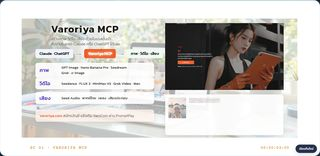
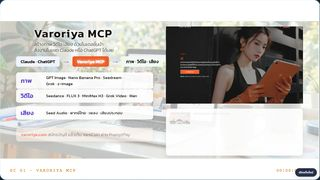
VaroCoin menu: Claude and ChatGPT MCP connect are one page each (4 steps + URL + check)
Claude-Session: https://claude.ai/code/session_01B1v9jyRD8MFjcV6ktsYkvy

diff --git a/cover/creative/menu.html b/cover/creative/menu.html
@@ -4610,8 +4610,8 @@ document.addEventListener("click", e => {
 <div class="stage"><video data-src="assets/motion/bg/varoriya--04-podcast-studio.mp4" muted loop playsinline preload="none"></video><div class="vig"></div>
 <div class="c kick a fi" style="left:5cqw;top:8cqw;animation-delay:.6s">ตัวอย่างงานจริง 3/3</div><div class="c vr-model a bi" style="left:5cqw;top:10.4cqw;animation-delay:.8s"><img class="rel" src="assets/varoriya/showcase/logos/minimax-color.svg" alt=""><span class="rel vr-h" style="font-size:2.15cqw"><b>MiniMax H3</b></span></div><div class="c vr-sub a fi" style="left:5cqw;top:15.6cqw;width:19.6cqw;line-height:1.6;animation-delay:1.2s">ใส่ภาพ วิดีโอ เสียงอ้างอิง ทำคนพูดไทยได้</div><video class="c vr-player a fi" data-src="assets/varoriya/showcase/full/hanuman-ultra.mp4" poster="assets/varoriya/showcase/minimax-h3-hanuman-ultra.jpg" muted loop playsinline controls preload="none" style="left:26.4cqw;top:8.4cqw;width:69.6cqw;height:39.15cqw;animation-delay:.9s"></video><div class="c vr-picks a fu" style="left:5cqw;top:21.6cqw;width:19.6cqw;animation-delay:1.4s"><button class="vr-pick on" data-src="assets/varoriya/showcase/full/hanuman-ultra.mp4" data-poster="assets/varoriya/showcase/minimax-h3-hanuman-ultra.jpg" data-title="หนุมาน vs 7 ยอดมนุษย์"><img src="assets/varoriya/showcase/minimax-h3-hanuman-ultra.jpg" alt=""><span>หนุมาน vs<br>7 ยอดมนุษย์</span></button><button class="vr-pick" data-src="assets/varoriya/showcase/full/flood-news.mp4" data-poster="assets/varoriya/showcase/minimax-h3-flood-news.jpg" data-title="ข่าวน้ำท่วม 2569"><img src="assets/varoriya/showcase/minimax-h3-flood-news.jpg" alt=""><span>ข่าวน้ำท่วม 2569</span></button></div>
 <div class="grain"></div><div class="bar t"></div><div class="bar b"></div><div class="sc">SC 06 · VARORIYA MCP</div><div class="tc" data-clock>00:00:00:00</div></div></section>
-<section class="demo" data-lesson="varoriya"><header><span class="num">07</span><h2>ติดตั้งใน Claude · ขั้น 1–4</h2><button class="replay">เล่นใหม่</button></header>
-<div class="stage dim"><video data-src="assets/motion/bg/varoriya--05-laptop-open.mp4" muted loop playsinline preload="none"></video><div class="vig"></div>
+<section class="demo" data-lesson="varoriya"><header><span class="num">07</span><h2>ต่อ MCP ใน Claude</h2><button class="replay">เล่นใหม่</button></header>
+<div class="stage dim vri-one"><video data-src="assets/motion/bg/varoriya--05-laptop-open.mp4" muted loop playsinline preload="none"></video><div class="vig"></div>
 <style>
 [data-lesson="varoriya"] .vri-shot { z-index: 5; text-shadow: none; }
 [data-lesson="varoriya"] .vri-shot img { position: relative; display: block; width: 100%; height: 100%; object-fit: contain; background: #f1ece3; border-radius: .7cqw; box-shadow: 0 .6cqw 1.8cqw rgba(40,30,10,.16); }
@@ -4620,11 +4620,23 @@ document.addEventListener("click", e => {
 [data-lesson="varoriya"] .vri-cap i { flex: none; padding: .1cqw .8cqw; border-radius: 1cqw; background: #d9704f; color: #fff; font: 600 1cqw/1.6 "Kanit"; font-style: normal; }
 [data-lesson="varoriya"] .vri-cap b { font-weight: 600; }
 [data-lesson="varoriya"] .vri-credit { z-index: 5; font: 300 .9cqw "Kanit"; color: #6b655b; text-shadow: none; }
-</style><div class="c kick a fi" style="left:5cqw;top:8cqw;animation-delay:.6s">Install · Claude · ขั้น 1–4</div><div class="c vr-h a bi" style="left:5cqw;top:9.8cqw;font-size:3cqw;animation-delay:.8s">ติดตั้งใน <b>Claude</b> ทีละขั้น <span style="font-size:1.6cqw;color:#6b655b">(1/2)</span></div><div class="c vri-credit a fi" style="right:4cqw;top:11.6cqw;animation-delay:1s">ภาพจากคู่มือทางการ varoriya.com/th/service/mcp</div>
-<div class="c vri-shot a fu" style="left:4cqw;top:15cqw;width:52cqw;height:27.6cqw;animation-delay:1.2s"><img src="assets/varoriya/mcp/step-1-2.jpg" alt="ขั้น 1–2 เข้า claude.ai หรือ Claude Desktop แล้วเปิด Settings"></div>
-<div class="c vri-shot a fu" style="left:58cqw;top:15cqw;width:38cqw;height:27.6cqw;animation-delay:1.6s"><img src="assets/varoriya/mcp/step-3-4.jpg" alt="ขั้น 3–4 เลือกแท็บ Connectors แล้วคลิก Add custom connector"></div>
-<div class="c vri-cap a fi" style="left:4cqw;top:43.6cqw;width:52cqw;animation-delay:2s"><i>1–2</i><span>เข้า <b>claude.ai</b> หรือแอป <b>Claude Desktop</b> แล้วเปิด <b>Settings</b> (⚙ มุมซ้ายล่าง หรือกด Ctrl + ,)</span></div>
-<div class="c vri-cap a fi" style="left:58cqw;top:43.6cqw;width:38cqw;animation-delay:2.3s"><i>3–4</i><span>เลือกแท็บ <b>Connectors</b> → กด <b>Add</b> → <b>Add custom connector</b></span></div>
+</style><style>
+[data-lesson="varoriya"] .vri-one .vri-cap { font-size: 1.05cqw; }
+[data-lesson="varoriya"] .vri-row-card { padding: .9cqw 1.4cqw !important; font-size: 1.05cqw !important; }
+[data-lesson="varoriya"] .vri-row-card h4 { font-size: 1.3cqw !important; }
+[data-lesson="varoriya"] .vri-row-card h4 { margin: 0 0 .3cqw; }
+[data-lesson="varoriya"] .vri-row-card p { margin: 0 0 .5cqw; }
+</style><div class="c kick a fi" style="left:5cqw;top:8cqw;animation-delay:.6s">Install · Claude</div><div class="c vr-h a bi" style="left:5cqw;top:9.6cqw;font-size:3cqw;animation-delay:.8s">ต่อ MCP ใน <b>Claude</b></div><div class="c vri-credit a fi" style="right:4cqw;top:11.4cqw;animation-delay:1s">ภาพจากคู่มือทางการ varoriya.com/th/service/mcp</div>
+<div class="c vri-shot a fu" style="left:4cqw;top:14.2cqw;width:21.5cqw;height:15.4cqw;animation-delay:1.1s"><img src="assets/varoriya/mcp/step-1-2.jpg" alt="เข้า Claude แล้วเปิด Settings"></div>
+<div class="c vri-shot a fu" style="left:27.5cqw;top:14.2cqw;width:21.5cqw;height:15.4cqw;animation-delay:1.4s"><img src="assets/varoriya/mcp/step-3-4.jpg" alt="แท็บ Connectors แล้ว Add custom connector"></div>
+<div class="c vri-shot a fu" style="left:51cqw;top:14.2cqw;width:21.5cqw;height:15.4cqw;animation-delay:1.7s"><img src="assets/varoriya/mcp/step-5-7.jpg" alt="วาง URL กด Add แล้ว Connect"></div>
+<div class="c vri-shot a fu" style="left:74.5cqw;top:14.2cqw;width:21.5cqw;height:15.4cqw;animation-delay:2.0s"><img src="assets/varoriya/mcp/step-8.jpg" alt="Connected แล้วเลือก Always allow"></div>
+<div class="c vri-cap a fi" style="left:4cqw;top:30.4cqw;width:21.5cqw;animation-delay:2.2s"><i>1</i><span>เปิด <b>Claude</b> → <b>Settings</b> (⚙ มุมซ้ายล่าง)</span></div>
+<div class="c vri-cap a fi" style="left:27.5cqw;top:30.4cqw;width:21.5cqw;animation-delay:2.4s"><i>2</i><span>แท็บ <b>Connectors</b> → <b>Add</b> → <b>Add custom connector</b></span></div>
+<div class="c vri-cap a fi" style="left:51cqw;top:30.4cqw;width:21.5cqw;animation-delay:2.6s"><i>3</i><span>วาง URL → <b>Add</b> → <b>Connect</b> แล้วล็อกอิน Varoriya</span></div>
+<div class="c vri-cap a fi" style="left:74.5cqw;top:30.4cqw;width:21.5cqw;animation-delay:2.8s"><i>4</i><span>ขึ้น <b>Connected</b> → เลือก <b>Always allow</b></span></div>
+<div class="c vr-card vri-row-card a fu" style="left:4cqw;top:38.2cqw;width:44cqw;animation-delay:3s;background:#eef4ff"><h4>URL ที่ต้องวาง</h4><p class="mono" style="font-size:1.35cqw">https://mcp.varoriya.com</p><p style="color:#4a453d">ไม่ต้องใช้ API Key ระบบให้ล็อกอินเอง</p><button class="cp vr-cp" data-p="https://mcp.varoriya.com">Copy</button></div>
+<div class="c vr-card vri-row-card a fu" style="left:50cqw;top:38.2cqw;width:46cqw;animation-delay:3.2s;background:#fff8ee"><h4 style="color:#2a2620">เช็กว่าต่อสำเร็จ</h4><p>พิมพ์ <span style="color:#5b3fc4">"ใช้ MCP Varoriya บอกรายชื่อโมเดลที่สร้างภาพได้ พร้อมราคา"</span> ได้รายการกลับมา = พร้อมใช้</p><button class="cp vr-cp" data-p="ใช้ MCP Varoriya บอกรายชื่อโมเดลที่สร้างภาพได้ พร้อมราคา">Copy prompt</button></div>
 <div class="grain"></div><div class="bar t"></div><div class="bar b"></div><div class="sc">SC 07 · VARORIYA MCP</div><div class="tc" data-clock>00:00:00:00</div></div></section>
 <section class="demo" data-lesson="varoriya"><header><span class="num">08</span><h2>ติดตั้งใน Claude · ขั้น 5–8</h2><button class="replay">เล่นใหม่</button></header>
 <div class="stage dim"><video data-src="assets/motion/bg/varoriya--05-laptop-open.mp4" muted loop playsinline preload="none"></video><div class="vig"></div>
@@ -4636,15 +4648,19 @@ document.addEventListener("click", e => {
 <div class="c vr-card a fu" style="left:72cqw;top:14.6cqw;width:24cqw;animation-delay:1.8s;background:#eef4ff"><h4>URL ที่ต้องวาง</h4><p class="mono" style="font-size:1.35cqw">https://mcp.varoriya.com</p><p style="color:#4a453d">ไม่ต้องใช้ API Key ระบบให้ล็อกอินเอง</p><button class="cp vr-cp" data-p="https://mcp.varoriya.com">Copy</button></div>
 <div class="c vr-card a fu" style="left:72cqw;top:30.4cqw;width:24cqw;animation-delay:2.2s;background:#fff8ee"><h4 style="color:#2a2620">เช็กว่าต่อสำเร็จ</h4><p>พิมพ์ในแชตว่า <span style="color:#5b3fc4">"ใช้ MCP Varoriya บอกรายชื่อโมเดลที่สร้างภาพได้ พร้อมราคา"</span> ได้รายการกลับมา = พร้อมใช้</p><button class="cp vr-cp" data-p="ใช้ MCP Varoriya บอกรายชื่อโมเดลที่สร้างภาพได้ พร้อมราคา">Copy prompt</button></div>
 <div class="grain"></div><div class="bar t"></div><div class="bar b"></div><div class="sc">SC 08 · VARORIYA MCP</div><div class="tc" data-clock>00:00:00:00</div></div></section>
-<section class="demo" data-lesson="varoriya"><header><span class="num">09</span><h2>ติดตั้งใน ChatGPT · ขั้น 1–3</h2><button class="replay">เล่นใหม่</button></header>
-<div class="stage dim"><video data-src="assets/motion/bg/varoriya--06-phone-scroll.mp4" muted loop playsinline preload="none"></video><div class="vig"></div>
-<div class="c kick a fi" style="left:5cqw;top:8cqw;animation-delay:.6s">Install · ChatGPT · ขั้น 1–3</div><div class="c vr-h a bi" style="left:5cqw;top:9.8cqw;font-size:3cqw;animation-delay:.8s">ติดตั้งใน <b>ChatGPT</b> ทีละขั้น <span style="font-size:1.6cqw;color:#6b655b">(1/2)</span></div><div class="c vri-credit a fi" style="right:4cqw;top:11.6cqw;animation-delay:1s">ภาพจริงจาก ChatGPT (บัญชี Plus) ตุลาคม 2026 · เมนูอาจย้ายตำแหน่ง</div>
-<div class="c vri-shot a fu" style="left:4cqw;top:15cqw;width:20cqw;height:11.2cqw;animation-delay:1.2s"><img src="assets/varoriya/mcp/gpt-step-1a.jpg" alt="เมนูด้านซ้าย กด ปลั๊กอิน"></div>
-<div class="c vri-cap a fi" style="left:25.5cqw;top:16cqw;width:30cqw;animation-delay:1.5s"><i>1</i><span>เปิด chatgpt.com แล้วกด <b>ปลั๊กอิน</b> ที่เมนูด้านซ้าย</span></div>
-<div class="c vri-shot a fu" style="left:4cqw;top:28.2cqw;width:30cqw;height:16.8cqw;animation-delay:1.8s"><img src="assets/varoriya/mcp/gpt-step-1b.jpg" alt="ปุ่ม เพิ่ม แล้วเลือก เพิ่มเซิร์ฟเวอร์ MCP แบบกำหนดเอง"></div>
-<div class="c vri-cap a fi" style="left:35.5cqw;top:29.2cqw;width:21cqw;animation-delay:2.1s"><i>2</i><span>กดปุ่ม <b>เพิ่ม</b> มุมขวาบน → เลือก <b>เพิ่มเซิร์ฟเวอร์ MCP แบบกำหนดเอง</b></span></div>
-<div class="c vri-shot a fu" style="left:61cqw;top:14.6cqw;width:27.6cqw;height:34.8cqw;animation-delay:2.4s"><img src="assets/varoriya/mcp/gpt-step-2.jpg" alt="หน้าต่างเพิ่มเซิร์ฟเวอร์ MCP กรอกชื่อ URL และเลือก OAuth"></div>
-<div class="c vri-cap a fi" style="left:35.5cqw;top:37.4cqw;width:24cqw;animation-delay:2.7s"><i>3</i><span>ชื่อ <b>Varoriya</b> · URL <b>https://mcp.varoriya.com</b> · การยืนยันตัวตน <b>OAuth</b> · ติ๊ก <b>ฉันเข้าใจ…</b> แล้วกด <b>สร้างเป็นปลั๊กอิน</b></span></div>
+<section class="demo" data-lesson="varoriya"><header><span class="num">09</span><h2>ต่อ MCP ใน ChatGPT</h2><button class="replay">เล่นใหม่</button></header>
+<div class="stage dim vri-one"><video data-src="assets/motion/bg/varoriya--06-phone-scroll.mp4" muted loop playsinline preload="none"></video><div class="vig"></div>
+<div class="c kick a fi" style="left:5cqw;top:8cqw;animation-delay:.6s">Install · ChatGPT</div><div class="c vr-h a bi" style="left:5cqw;top:9.6cqw;font-size:3cqw;animation-delay:.8s">ต่อ MCP ใน <b>ChatGPT</b></div><div class="c vri-credit a fi" style="right:4cqw;top:11.4cqw;animation-delay:1s">ภาพจริงจาก ChatGPT (บัญชี Plus) ตุลาคม 2026 · เมนูอาจย้ายตำแหน่ง</div>
+<div class="c vri-shot a fu" style="left:4cqw;top:14.2cqw;width:21.5cqw;height:15.4cqw;animation-delay:1.1s"><img src="assets/varoriya/mcp/gpt-step-1a.jpg" alt="เมนูด้านซ้าย กด ปลั๊กอิน"></div>
+<div class="c vri-shot a fu" style="left:27.5cqw;top:14.2cqw;width:21.5cqw;height:15.4cqw;animation-delay:1.4s"><img src="assets/varoriya/mcp/gpt-step-1b.jpg" alt="ปุ่ม เพิ่ม แล้วเลือก เพิ่มเซิร์ฟเวอร์ MCP แบบกำหนดเอง"></div>
+<div class="c vri-shot a fu" style="left:51cqw;top:14.2cqw;width:21.5cqw;height:15.4cqw;animation-delay:1.7s"><img src="assets/varoriya/mcp/gpt-step-2.jpg" alt="กรอกชื่อ URL และเลือก OAuth"></div>
+<div class="c vri-shot a fu" style="left:74.5cqw;top:14.2cqw;width:21.5cqw;height:15.4cqw;animation-delay:2.0s"><img src="assets/varoriya/mcp/gpt-step-3.jpg" alt="ในแชต กด ปลั๊กอิน แล้วเลือก Varoriya"></div>
+<div class="c vri-cap a fi" style="left:4cqw;top:30.4cqw;width:21.5cqw;animation-delay:2.2s"><i>1</i><span>เปิด <b>chatgpt.com</b> → กด <b>ปลั๊กอิน</b> เมนูซ้าย</span></div>
+<div class="c vri-cap a fi" style="left:27.5cqw;top:30.4cqw;width:21.5cqw;animation-delay:2.4s"><i>2</i><span>กด <b>เพิ่ม</b> → <b>เพิ่มเซิร์ฟเวอร์ MCP แบบกำหนดเอง</b></span></div>
+<div class="c vri-cap a fi" style="left:51cqw;top:30.4cqw;width:21.5cqw;animation-delay:2.6s"><i>3</i><span>ชื่อ <b>Varoriya</b> · วาง URL · เลือก <b>OAuth</b> → ติ๊ก แล้ว <b>สร้างเป็นปลั๊กอิน</b> → ล็อกอิน กด <b>อนุญาต</b></span></div>
+<div class="c vri-cap a fi" style="left:74.5cqw;top:30.4cqw;width:21.5cqw;animation-delay:2.8s"><i>4</i><span>ในแชต กด <b>@ ปลั๊กอิน</b> → เลือก <b>Varoriya</b> แล้วสั่งงานได้เลย</span></div>
+<div class="c vr-card vri-row-card a fu" style="left:4cqw;top:38.2cqw;width:44cqw;animation-delay:3s;background:#eef4ff"><h4>URL ที่ต้องวาง</h4><p class="mono" style="font-size:1.35cqw">https://mcp.varoriya.com</p><p style="color:#4a453d">ChatGPT รับเฉพาะ URL แบบ https · ไม่ต้องใช้ API Key</p><button class="cp vr-cp" data-p="https://mcp.varoriya.com">Copy</button></div>
+<div class="c vr-card vri-row-card a fu" style="left:50cqw;top:38.2cqw;width:46cqw;animation-delay:3.2s;background:#fff8ee"><h4 style="color:#2a2620">เช็กว่าต่อสำเร็จ</h4><p>พิมพ์ <span style="color:#5b3fc4">"ใช้ MCP Varoriya บอกรายชื่อโมเดลที่สร้างภาพได้ พร้อมราคา"</span> ได้รายการกลับมา = พร้อมใช้</p><button class="cp vr-cp" data-p="ใช้ MCP Varoriya บอกรายชื่อโมเดลที่สร้างภาพได้ พร้อมราคา">Copy prompt</button></div>
 <div class="grain"></div><div class="bar t"></div><div class="bar b"></div><div class="sc">SC 09 · VARORIYA MCP</div><div class="tc" data-clock>00:00:00:00</div></div></section>
 <section class="demo" data-lesson="varoriya"><header><span class="num">10</span><h2>ติดตั้งใน ChatGPT · ขั้น 4–5</h2><button class="replay">เล่นใหม่</button></header>
 <div class="stage dim"><video data-src="assets/motion/bg/varoriya--06-phone-scroll.mp4" muted loop playsinline preload="none"></video><div class="vig"></div>

diff --git a/cover/menu.html b/cover/menu.html
@@ -2360,10 +2360,8 @@
         title: "รับ VaroCoin 5,000",
         pages: [
           { type: "profile-site", label: "01 · Varoriya MCP", href: "creative/menu.html?embed=1#varoriya/1" },
-          { type: "profile-site", label: "07 · ติดตั้งใน Claude · ขั้น 1–4", href: "creative/menu.html?embed=1#varoriya/7" },
-          { type: "profile-site", label: "08 · ติดตั้งใน Claude · ขั้น 5–8", href: "creative/menu.html?embed=1#varoriya/8" },
-          { type: "profile-site", label: "09 · ติดตั้งใน ChatGPT · ขั้น 1–3", href: "creative/menu.html?embed=1#varoriya/9" },
-          { type: "profile-site", label: "10 · ติดตั้งใน ChatGPT · ขั้น 4–5", href: "creative/menu.html?embed=1#varoriya/10" },
+          { type: "profile-site", label: "07 · ต่อ MCP ใน Claude", href: "creative/menu.html?embed=1#varoriya/7" },
+          { type: "profile-site", label: "09 · ต่อ MCP ใน ChatGPT", href: "creative/menu.html?embed=1#varoriya/9" },
           // 2026-11-05: top-up page removed (coins are handed out in class); one page of real commands to try after connecting
           { type: "profile-site", label: "16 · ลองสั่งงาน", href: "creative/menu.html?embed=1#varoriya/16" }
         ]

diff --git a/README.md b/README.md
@@ -13,3 +13,4 @@
 - How-to clips (Setup menu + AI Work Playbook): REAL screen recordings of Claude Desktop on the trainer's PC, cut only (speed-up, captions, privacy blur). Pipeline in scripts/howto/: make_jobs.py (prompts verbatim from the pages + fresh workspace per job) -> record-job.ps1 (drives Claude Desktop, records with ffmpeg gdigrab) -> make_spec.py + edit.py (cut to cover/assets/videos/howto-<id>.mp4). record-open.ps1 + fix_open.py redo only the 'open the output file' ending. Inputs for the Setup cards: cover/assets/playbook-samples/setup-*.
 
 - Talk copy of cover/creative/menu.html is hand-edited: Varoriya page 1 no longer says "ดูในหน้า 4–6" (2026-11-05). Re-running scripts/apply-space-skin.py refetches it and undoes this; re-apply by hand.
+- Talk copy: Varoriya pages 7 and 9 rewritten as one page each (Claude / ChatGPT MCP connect), 2026-11-05.
